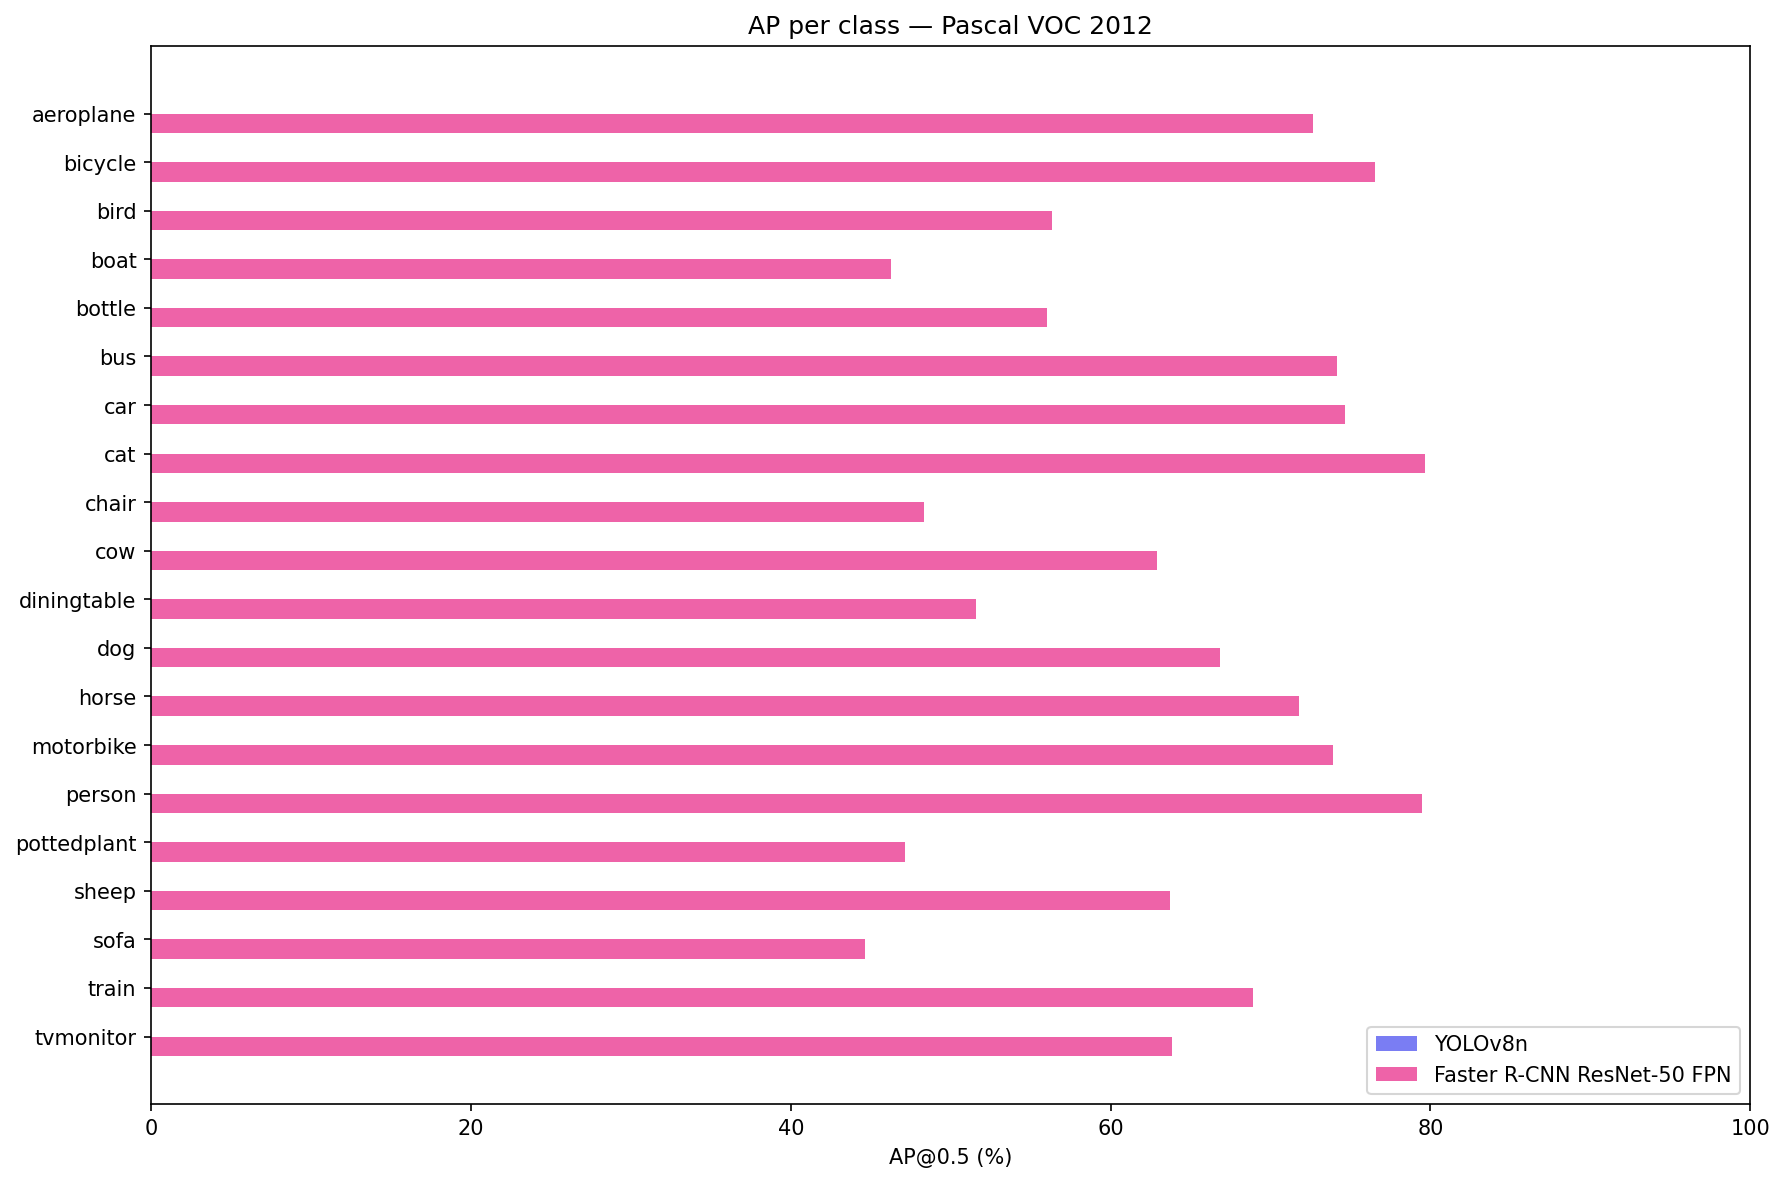
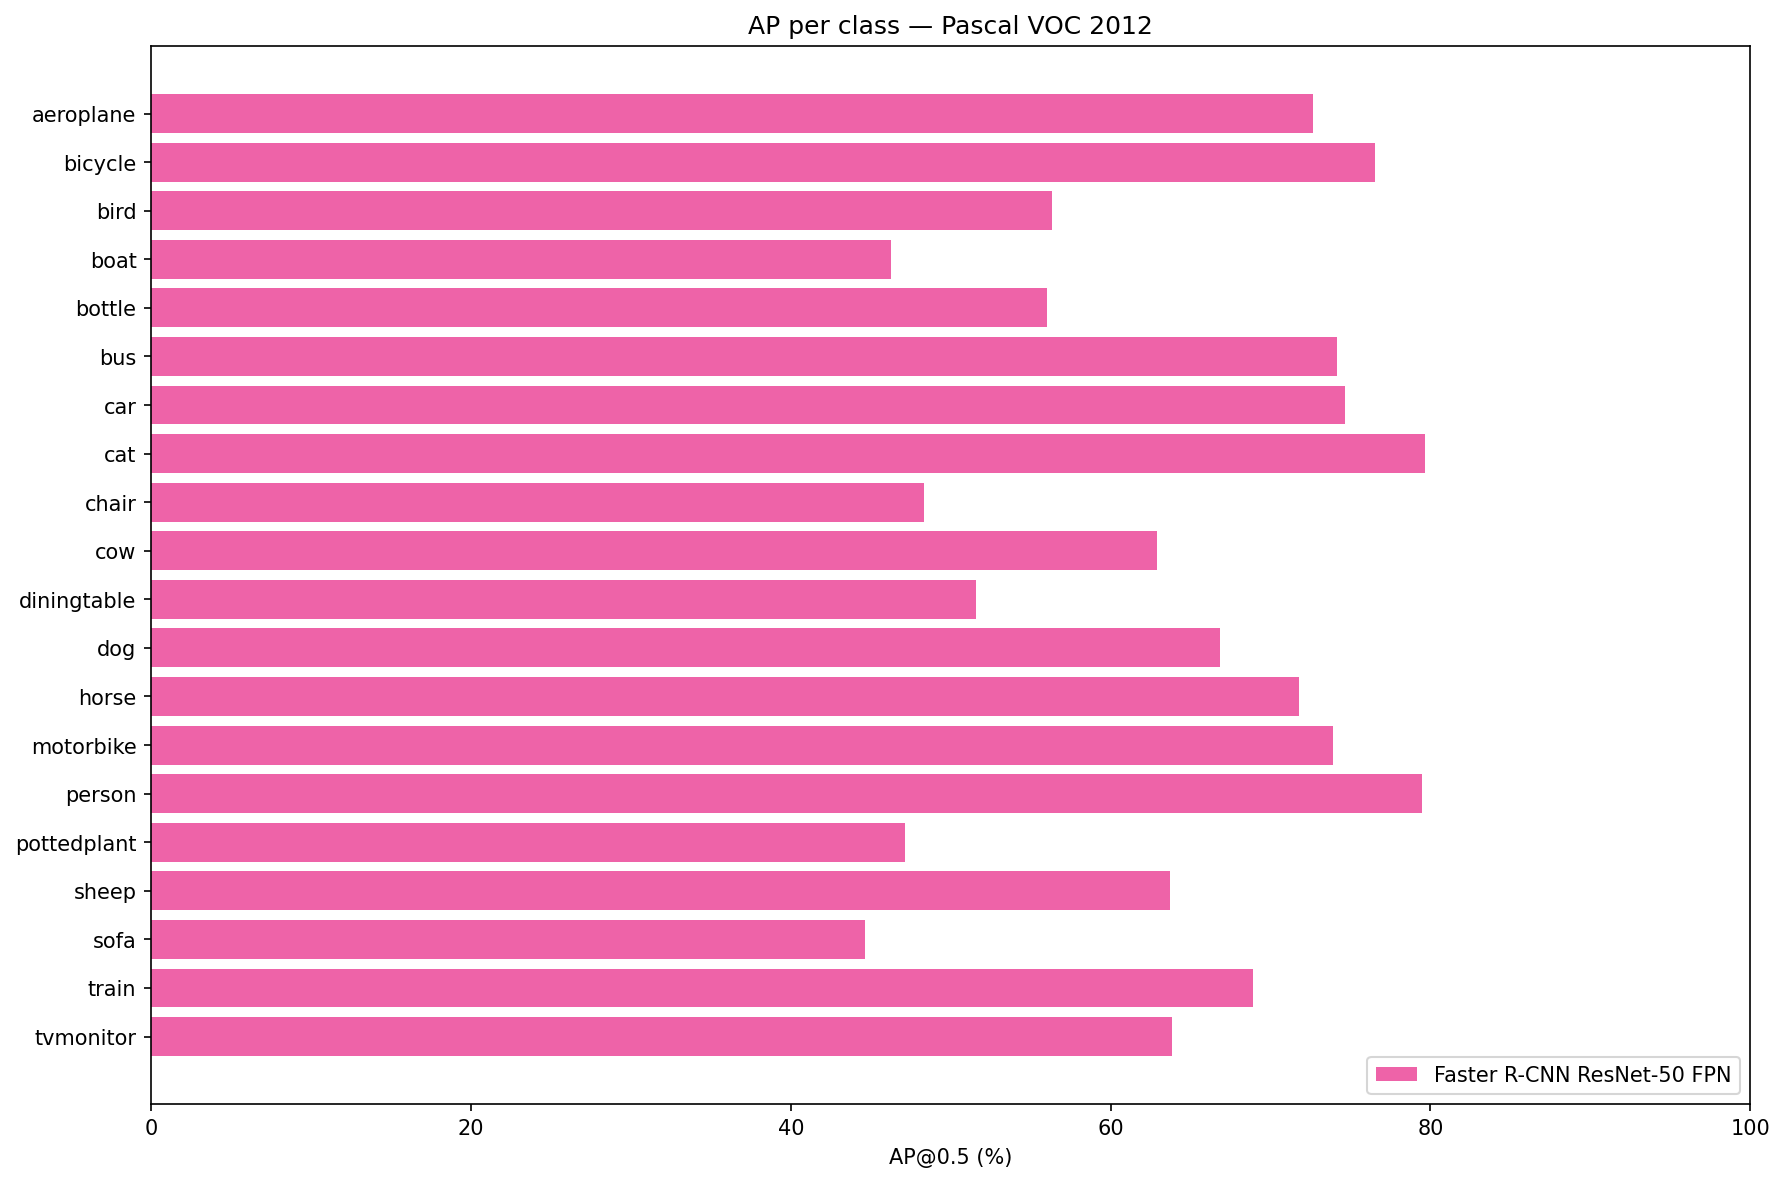
Update exercise_2 documentation and enhance per-class AP plotting functionality

Changed region(s): [[0.0616, 0.0609, 0.8011, 0.8832], [0.7703, 0.8528, 0.8627, 0.9137]]

diff --git a/docs/exercise_2.html b/docs/exercise_2.html
@@ -336,7 +336,7 @@
           <tr><td>bicycle</td><td>76.5%</td></tr>
           <tr><td>car</td><td>74.7%</td></tr>
           <tr><td>bus</td><td>74.2%</td></tr>
-          <tr><td colspan="2" style="color:var(--text-muted); font-size:0.78rem; padding:0.6rem 0;">⋯ (10 lớp khác — xem <code>results/plots/per_class_ap.png</code>)</td></tr>
+          <tr><td colspan="2" style="color:var(--text-muted); font-size:0.78rem; padding:0.6rem 0;">⋯ 10 lớp ở giữa (xem biểu đồ đầy đủ bên dưới)</td></tr>
           <tr><td>diningtable</td><td>51.6%</td></tr>
           <tr><td>chair</td><td>48.3%</td></tr>
           <tr><td>pottedplant</td><td>47.1%</td></tr>
@@ -347,6 +347,16 @@
     </div>
     <p style="font-size:0.82rem; color:var(--text-muted);">
       * Các lớp dễ nhất (cat, person, bicycle) có nhiều mẫu training và đặc trưng rõ ràng. Lớp khó (sofa, boat, pottedplant) thường bị che khuất hoặc có nhiều biến thể về hình dạng/góc nhìn.
+    </p>
+
+    <div class="table-title">Biểu đồ đầy đủ — 20 lớp (Faster R-CNN)</div>
+    <p style="text-align:center;">
+      <img src="https://raw.githubusercontent.com/PhongNguyenTrung/hcmut-deeplearning-ass1/main/exercise_2/results/plots/per_class_ap.png"
+           alt="Faster R-CNN per-class AP across all 20 VOC classes"
+           style="max-width:100%; border-radius:12px; border:1px solid var(--border);" />
+    </p>
+    <p style="font-size:0.78rem; color:var(--text-muted); margin-top:0.4rem;">
+      * YOLOv8n không có per-class AP (ultralytics không export theo lớp ở phiên bản này — chỉ có mAP tổng).
     </p>
   </div>
 

diff --git a/exercise_2/src/utils.py b/exercise_2/src/utils.py
@@ -211,22 +211,32 @@ def plot_per_class_ap(results: dict, save_path: str = None) -> None:
     """
     Biểu đồ horizontal bar: AP@0.5 từng lớp, mỗi mô hình một màu.
 
+    Chỉ vẽ các model có AP_per_class non-empty — model thiếu data sẽ bị bỏ qua
+    để không tạo cột rỗng và legend gây hiểu lầm.
+
     Args:
         results: {"YOLOv8n": {"AP_per_class": {cls: float}}, "Faster R-CNN": {...}}
     """
-    models = list(results.keys())
+    models_with_data = [
+        m for m, r in results.items()
+        if r.get("AP_per_class") and len(r["AP_per_class"]) > 0
+    ]
+    if not models_with_data:
+        print("[plot_per_class_ap] Không có model nào có AP_per_class — skip plot.")
+        return
+
     classes = VOC_CLASSES
     n_classes = len(classes)
 
     fig, ax = plt.subplots(figsize=(12, 8))
-    colors = ["#6366f1", "#ec4899", "#10b981", "#f59e0b"]
-    width = 0.8 / len(models)
+    colors = ["#ec4899", "#6366f1", "#10b981", "#f59e0b"]
+    width = 0.8 / len(models_with_data)
     y = np.arange(n_classes)
 
-    for i, (model_name, color) in enumerate(zip(models, colors)):
-        ap_dict = results[model_name].get("AP_per_class", {})
+    for i, (model_name, color) in enumerate(zip(models_with_data, colors)):
+        ap_dict = results[model_name]["AP_per_class"]
         ap_vals = [ap_dict.get(c, 0) * 100 for c in classes]
-        offset = (i - len(models) / 2 + 0.5) * width
+        offset = (i - len(models_with_data) / 2 + 0.5) * width
         ax.barh(y + offset, ap_vals, width, label=model_name, color=color, alpha=0.85)
 
     ax.set_yticks(y)
